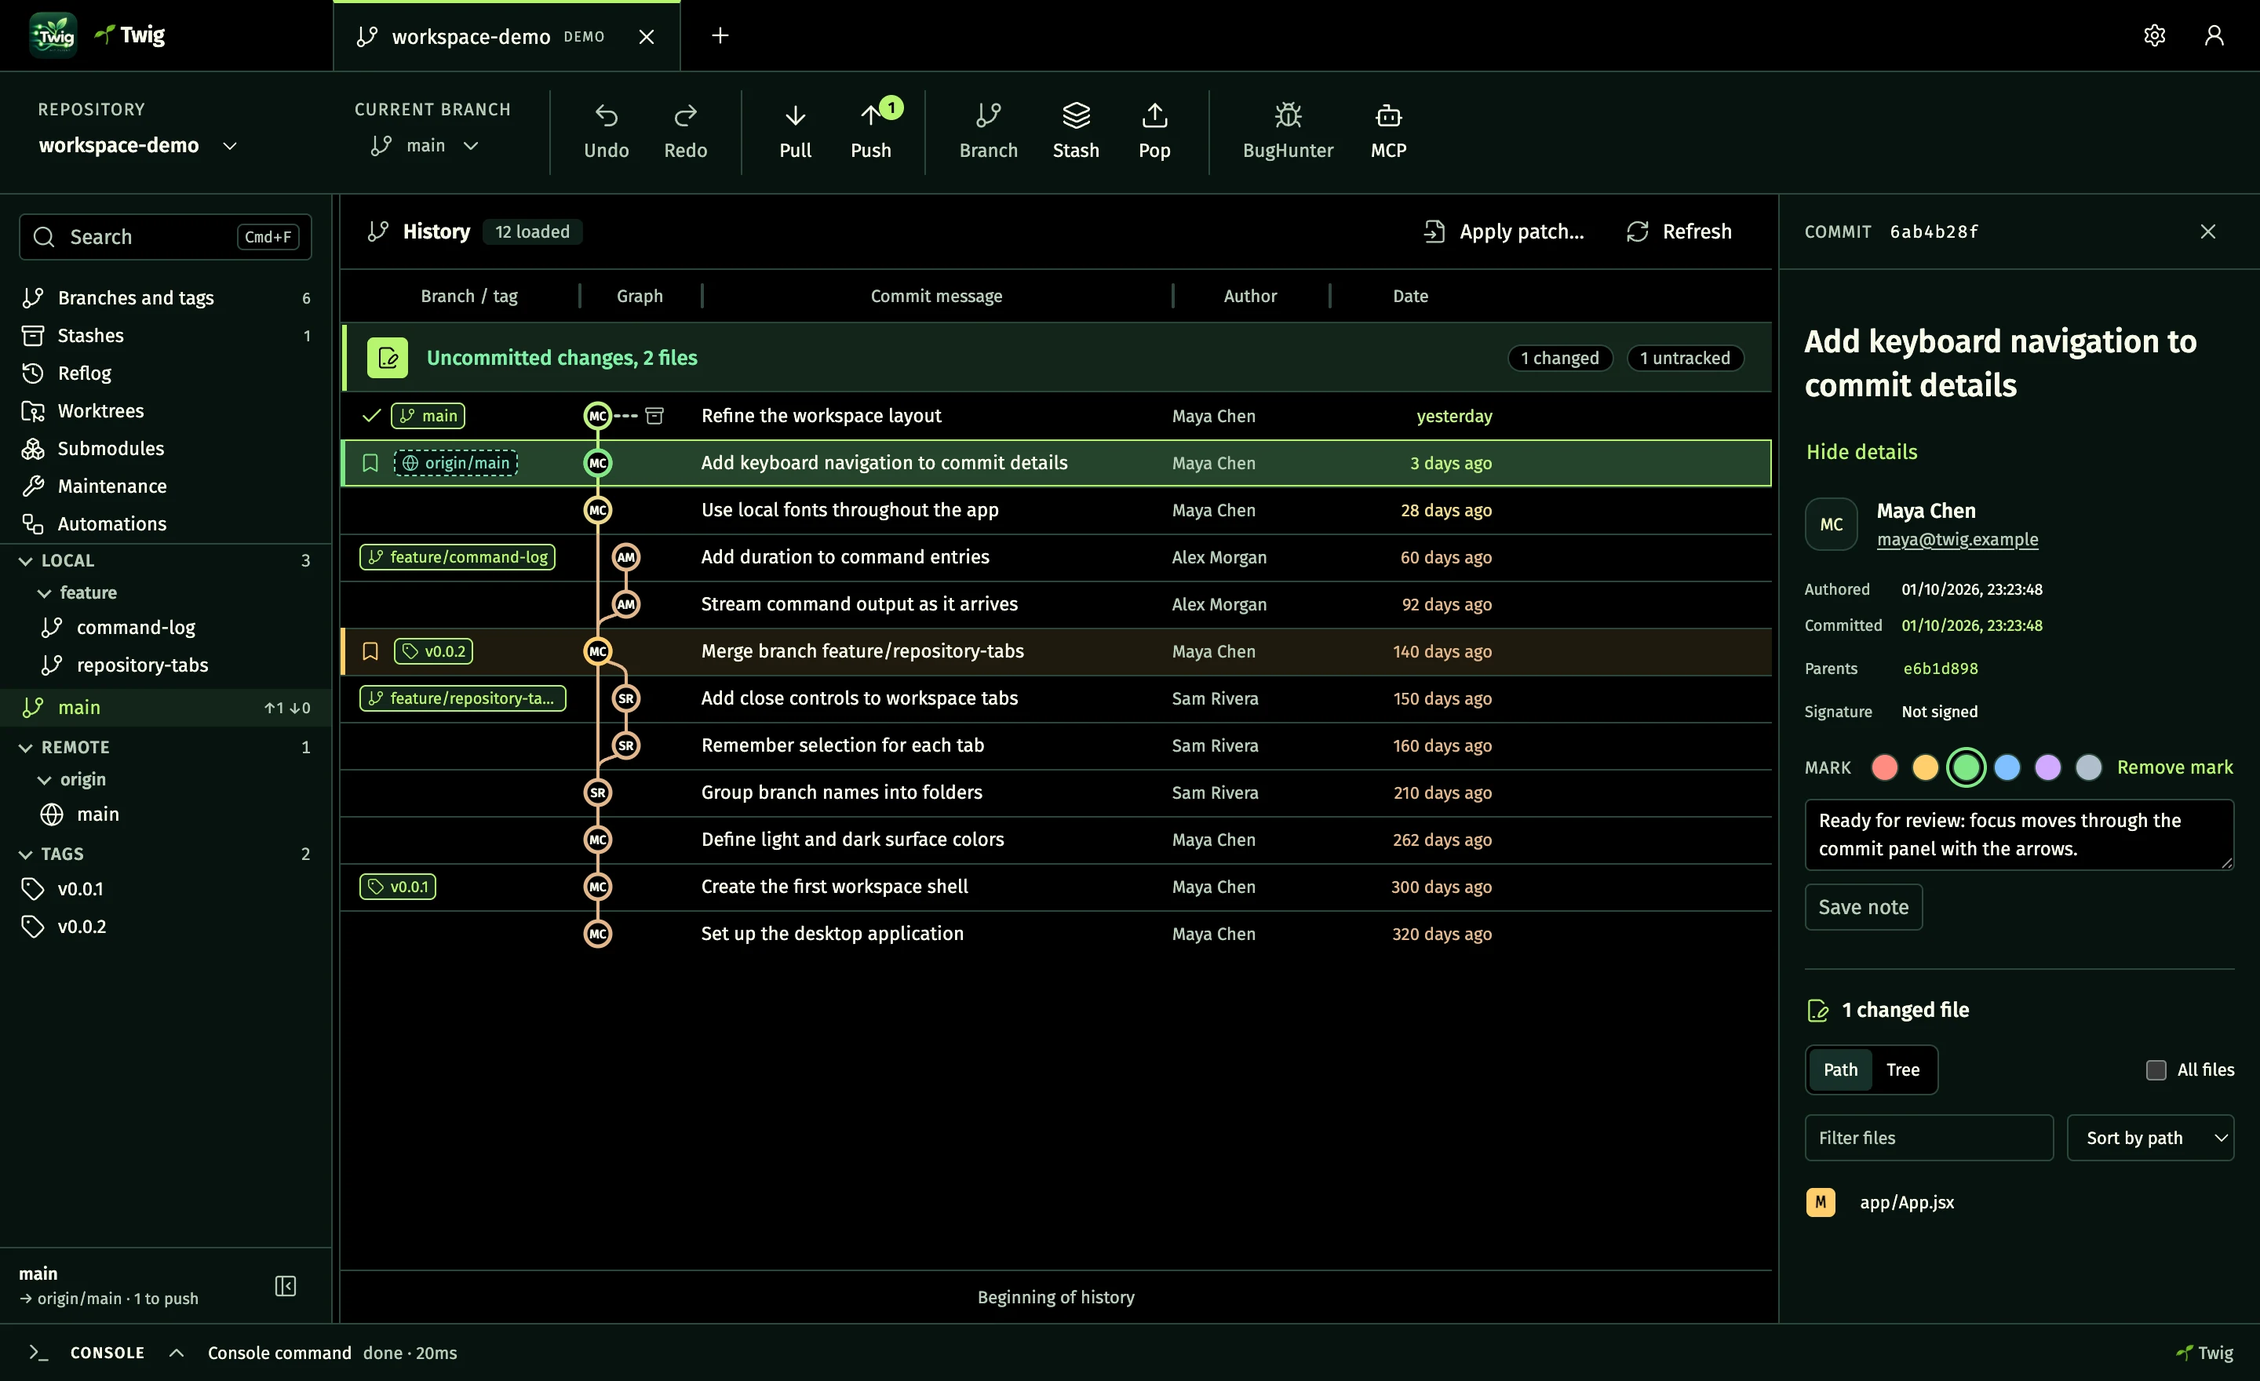
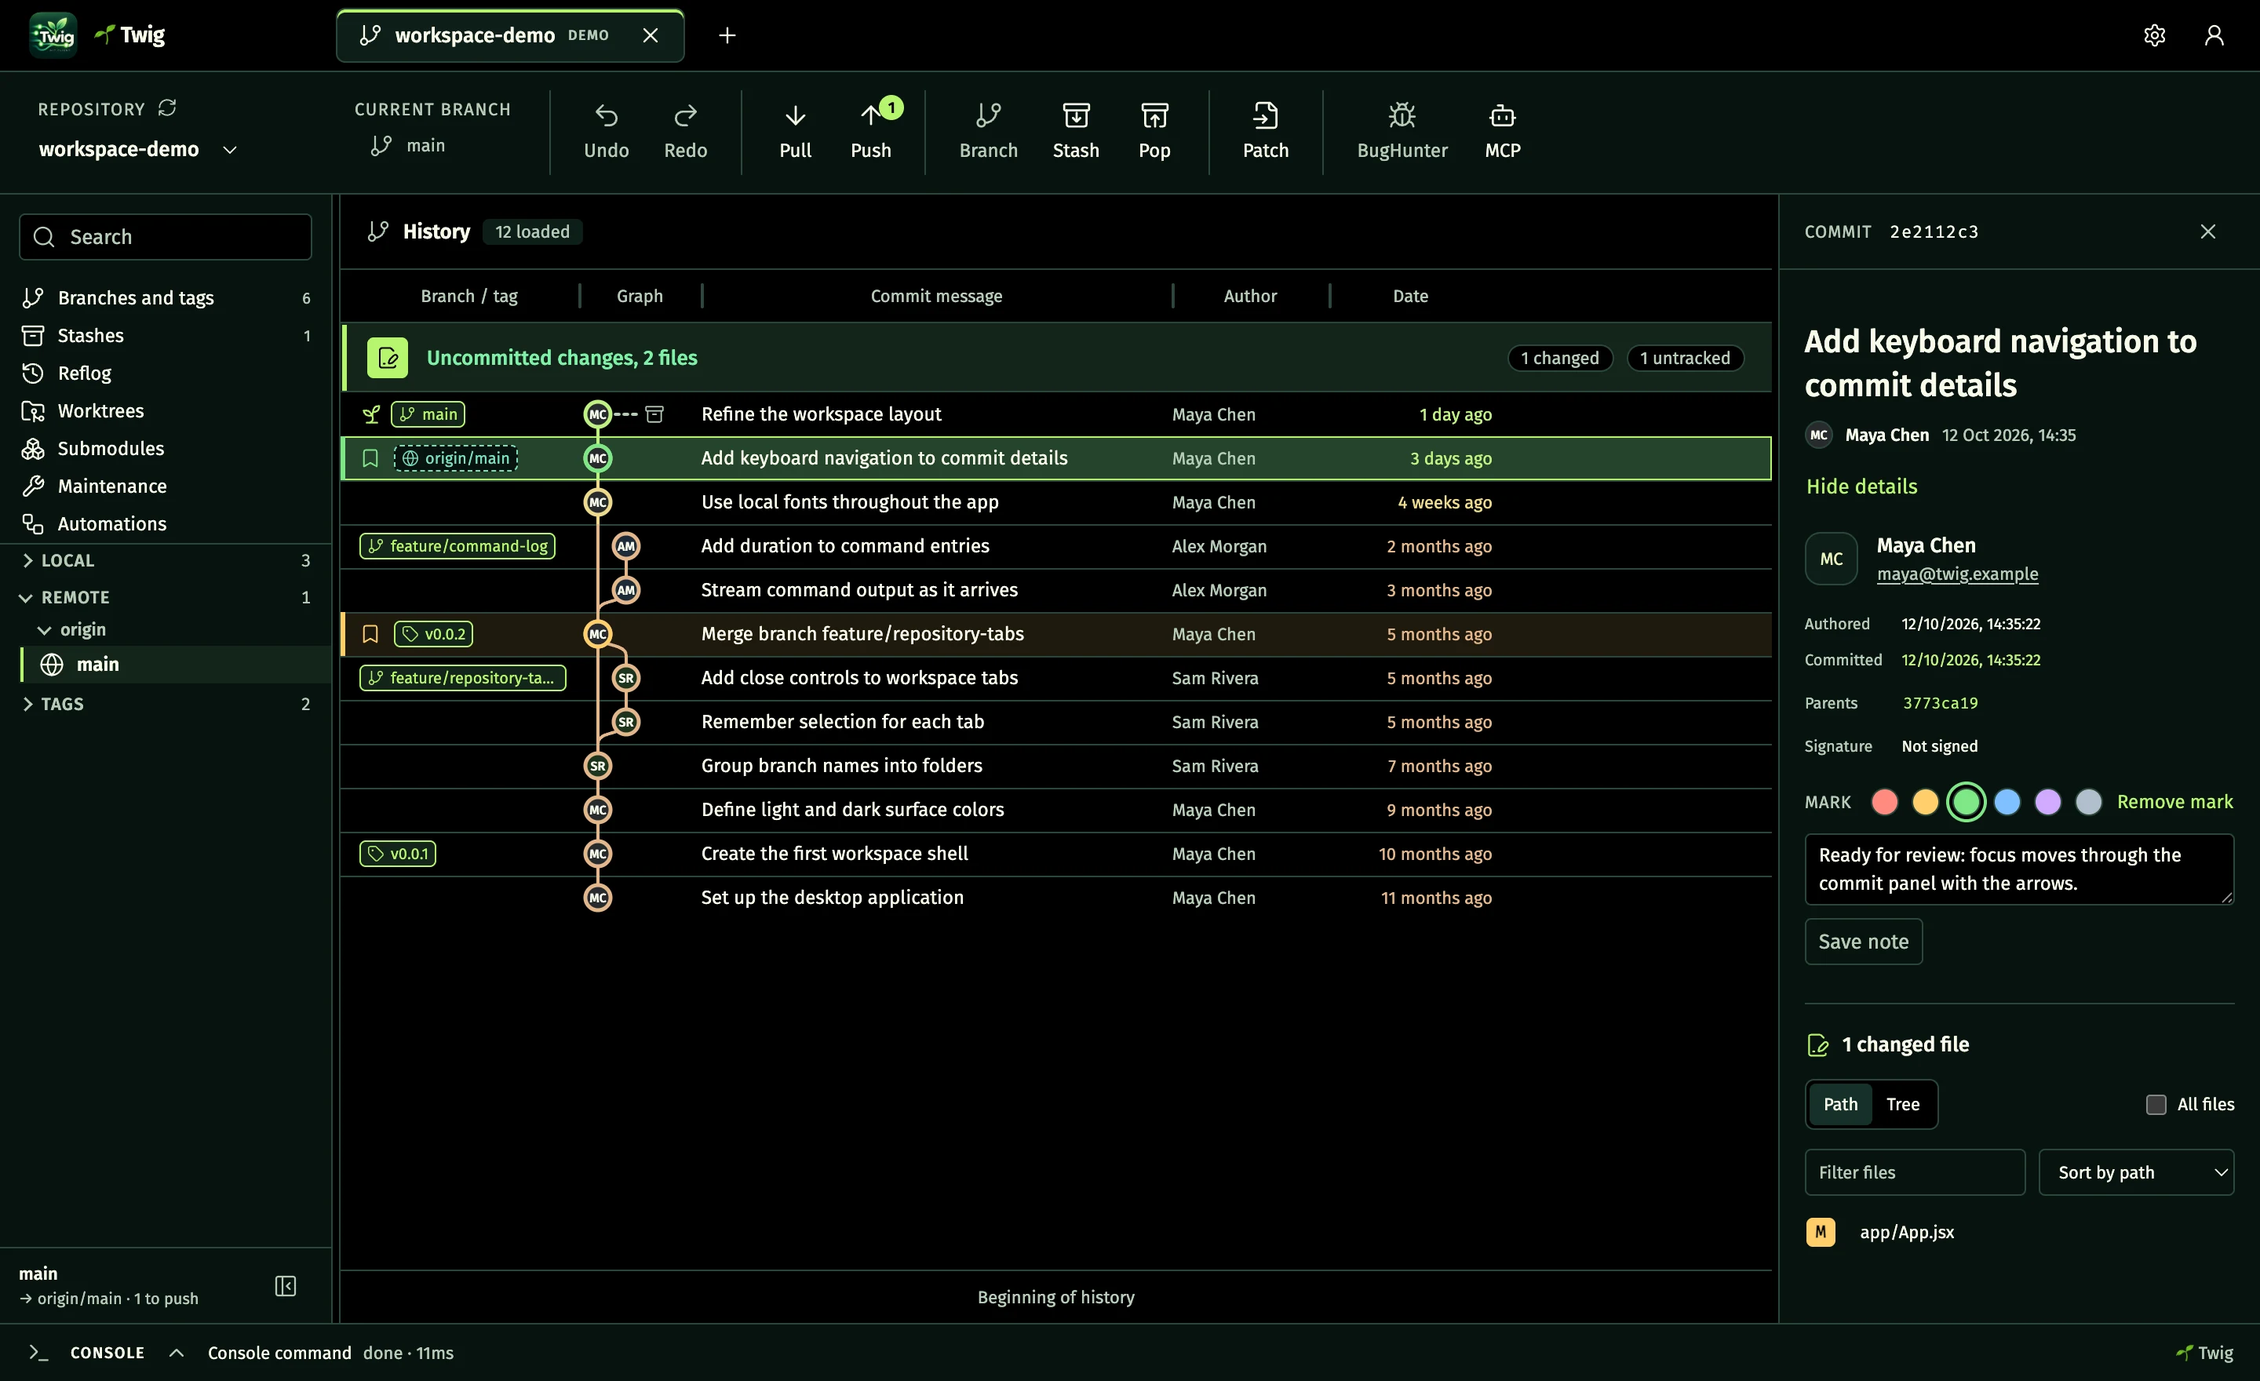
docs(site): retake screenshots, add tree view, HEAD line, speed and shortcuts to the landing
Технически:
- scripts/site-shots.mjs: кадр uncommitted — origin/main на коммит впереди main (commit-tree, ref возвращается после кадра), пунктир к main, списки деревом; все 11 кадров пересняты (тулбар с Patch, консоль Short/Path).
- site/index.html: #features 16 → 20 пунктов (незакоммиченное деревом, где ваша ветка, большие репозитории — замер 0,75 с на 100 000 коммитов, клавиши под себя), подпись и alt кадра; README — History/Changes/Everyday и подпись кадра. site/check.mjs прошёл на 375/768/1024/1440.

Патчноут:
- —

diff --git a/site/index.html b/site/index.html
@@ -105,6 +105,8 @@
           <li data-reveal><strong>Undo для Git</strong><span>Коммит, merge, cherry-pick, checkout, stash и даже discard — правки сначала копируются в Git.</span></li>
           <li data-reveal><strong>Проверки до commit и push</strong><span>Тесты, правила ветки и сообщения, поиск секретов — без ручных хуков.</span></li>
           <li data-reveal><strong>Staging по строкам</strong><span>Файлы, ханки или отдельные строки. Дифф с номерами и правками внутри строки.</span></li>
+          <li data-reveal><strong>Незакоммиченное деревом</strong><span>Списки по папкам, фильтр по имени и типу файла — Stage берёт только показанное.</span></li>
+          <li data-reveal><strong>Где ваша ветка</strong><span>Отстала от remote или другой ветки — пунктир слева ведёт к её коммиту.</span></li>
           <li data-reveal><strong>Rebase по плану</strong><span>Порядок перетаскиванием, squash выделенных, новые сообщения — до запуска.</span></li>
           <li data-reveal><strong>Конфликты в три колонки</strong><span>Ваша версия, база и их — результат собирается построчно.</span></li>
           <li data-reveal><strong>Ветки перетаскиванием</strong><span>Merge, rebase, cherry-pick или push — команды видны до запуска.</span></li>
@@ -115,6 +117,8 @@
           <li data-reveal><strong>Поиск по всей истории</strong><span>По сообщению, хэшу, автору, пути и коду (<code>-S</code>, <code>-G</code>).</span></li>
           <li data-reveal><strong>Марки и заметки</strong><span>Цвет и текст на коммите — только у вас, не в репозитории.</span></li>
           <li data-reveal><strong>Worktrees, сабмодули, LFS</strong><span>А ещё подписи коммитов, патчи, теги и обслуживание репозитория.</span></li>
+          <li data-reveal><strong>Большие репозитории</strong><span>История читается потоком: в замере на 100&nbsp;000 коммитов — вся за 0,75&nbsp;с.</span></li>
+          <li data-reveal><strong>Клавиши под себя</strong><span>Любое сочетание переназначается в Settings и работает в любой раскладке.</span></li>
           <li data-reveal><strong>Учебная песочница</strong><span>Настоящий репозиторий с remote: пробуйте merge и rebase без риска.</span></li>
           <li data-reveal><strong>Обновления в один клик</strong><span>Установщик сверяется с релизом по SHA&#8209;256, сборка для macOS подписана и нотаризована.</span></li>
         </ul>
@@ -124,7 +128,7 @@
     <section class="screens wrap section-space" id="screens" aria-labelledby="screens-title">
       <div class="section-heading compact"><div><p class="eyebrow">ЭКРАНЫ ПРИЛОЖЕНИЯ</p><h2 id="screens-title">Снято в самом 🌱 Twig, не нарисовано.</h2></div><p>Все снимки — демо-репозиторий, который<br>открывается при первом запуске.</p></div>
       <div class="screen-grid">
-        <figure class="screen" data-reveal><a href="assets/shots/uncommitted.webp" target="_blank" rel="noopener" aria-label="Незакоммиченные изменения — открыть в полном размере (новая вкладка)"><img src="assets/shots/uncommitted.webp" width="2880" height="1760" alt="Полоса «Uncommitted changes, 3 files» с чипами 1 staged, 2 changed, 1 untracked над графом; справа списки Staged, Changed и Untracked с кнопками плюс и минус у каждого файла." loading="lazy"></a><figcaption><strong>Незакоммиченные изменения</strong><span>Плюс и минус переносят файл в коммит и обратно, граф остаётся на месте.</span></figcaption></figure>
+        <figure class="screen" data-reveal><a href="assets/shots/uncommitted.webp" target="_blank" rel="noopener" aria-label="Незакоммиченные изменения — открыть в полном размере (новая вкладка)"><img src="assets/shots/uncommitted.webp" width="2880" height="1760" alt="Ветка main отстала от origin/main на один коммит: пунктир слева ведёт от верхней строки к коммиту main. Над графом полоса «Uncommitted changes, 4 files» с чипами 1 staged, 3 changed, 1 untracked; справа списки деревом папок, переключатель Path / Tree, фильтр по типу файла и кнопки плюс и минус у каждого файла." loading="lazy"></a><figcaption><strong>Незакоммиченные изменения</strong><span>Деревом или по типу файла, плюс и минус — прямо у графа. Пунктир показывает, на какой ветке вы.</span></figcaption></figure>
         <figure class="screen" data-reveal><a href="assets/shots/mcp.webp" target="_blank" rel="noopener" aria-label="Окно MCP — открыть в полном размере (новая вкладка)"><img src="assets/shots/mcp.webp" width="2880" height="1760" alt="Окно AI agents (MCP) поверх демо-песочницы: MCP server — On, статус Listening, четыре карточки What your agent gets, три шага подключения и команда для Claude Code с кнопкой Copy." loading="lazy"></a><figcaption><strong>MCP для агента</strong><span>Включение, что получит агент, и готовая команда подключения с кнопкой Copy.</span></figcaption></figure>
         <figure class="screen" data-reveal><a href="assets/shots/conflict.webp" target="_blank" rel="noopener" aria-label="Редактор конфликтов — открыть в полном размере (новая вкладка)"><img src="assets/shots/conflict.webp" width="2880" height="1760" alt="Merge in progress: редактор конфликта в app/App.jsx — колонки Ours, Base и Theirs с отмеченными строками, справа результат, который будет записан на диск." loading="lazy"></a><figcaption><strong>Редактор конфликтов</strong><span>Строки выбираются по одной, порядок сторон задаётся, у редактора своя отмена.</span></figcaption></figure>
         <figure class="screen" data-reveal><a href="assets/shots/automations-blocked.webp" target="_blank" rel="noopener" aria-label="Автоматизации — открыть в полном размере (новая вкладка)"><img src="assets/shots/automations-blocked.webp" width="2880" height="1760" alt="Окно Before Commit checks: Commit blocked, 0 passed, 1 failed — правило «No direct commits» запрещает коммиты в main; кнопки Fix and retry, Run again и Bypass once." loading="lazy"></a><figcaption><strong>Проверки перед коммитом</strong><span>Пайплайн остановил коммит в main и объяснил почему.</span></figcaption></figure>

diff --git a/README.md b/README.md
@@ -71,8 +71,11 @@ cut in the middle. More: [docs/mcp.md](docs/mcp.md).
 - **History** — a virtualized graph that names every branch and tag; search by message,
   hash, author, path or code (`-S`, `-G`); blame, "blame before this change" and reverse
   blame; file history across renames; reflog with lost commits marked and recoverable.
-- **Changes** — stage files, hunks or single lines; discard with Undo; amend,
-  co-authors, `.gitignore` from the menu.
+  When the checked-out branch is not the top row — behind its remote or another
+  branch — a dashed line on the left leads down to its commit.
+- **Changes** — stage files, hunks or single lines; lists by path or as a folder tree,
+  filtered by name or file type, and with a filter on, Stage/Unstage take only what is
+  shown; discard with Undo; amend, co-authors, `.gitignore` from the menu.
 - **Diffs** — numbered on both sides, intra-line and word modes, syntax highlighting;
   images side by side, swipe, onion skin or difference, with the changed areas boxed.
 - **Rewriting history** — a context menu with everything that applies; interactive
@@ -86,14 +89,14 @@ cut in the middle. More: [docs/mcp.md](docs/mcp.md).
   review them.
 - **Everyday** — picks up commits made in a terminal by itself (no polling), a demo
   sandbox that is a real repository, dark and light themes, full keyboard control
-  (Cmd/Ctrl + J console, F search, T new tab, W close tab, `,` settings).
+  with every shortcut reassignable in Settings and working in any keyboard layout.
 
 ## Screenshots
 
 | | |
 | --- | --- |
-| ![Uncommitted changes: the strip over the graph with 1 staged, 2 changed and 1 untracked, and the three lists in the right panel with a plus or minus on each file.](site/assets/shots/uncommitted.webp) | ![The AI agents (MCP) window over the demo sandbox: MCP server On and listening, what the agent gets, three connection steps and the Claude Code command with Copy.](site/assets/shots/mcp.webp) |
-| **Uncommitted changes** — stage and unstage without leaving the graph. | **MCP** — turn it on and copy the command for your agent. |
+| ![Uncommitted changes: main is one commit behind origin/main, so a dashed line runs from the top row down to main; the strip over the graph says 1 staged, 3 changed, 1 untracked, and the right panel lists them as a folder tree with a plus or minus on each file.](site/assets/shots/uncommitted.webp) | ![The AI agents (MCP) window over the demo sandbox: MCP server On and listening, what the agent gets, three connection steps and the Claude Code command with Copy.](site/assets/shots/mcp.webp) |
+| **Uncommitted changes** — as a tree or filtered by type; the dashed line shows which branch they are on. | **MCP** — turn it on and copy the command for your agent. |
 | ![A merge stopped on app/App.jsx: the conflict editor with Ours, Base and Theirs columns, lines picked from both sides, and the result that will be written to disk.](site/assets/shots/conflict.webp) | ![An automation pipeline blocking a commit to main: Commit blocked, 0 passed, 1 failed, with Fix and retry, Run again and Bypass once.](site/assets/shots/automations-blocked.webp) |
 | **Conflict editor** — pick lines from each side in the order you choose. | **Automations** — a pre-commit pipeline stops a direct commit to `main`. |
 | ![BugHunter testing a commit in the middle of the range, with about two more tests to go and Bug absent / Bug present / Cannot test · Skip.](site/assets/shots/bughunter.webp) | ![Blame of app/App.jsx grouped by commit, with the selected line's commit and its diff of this file on the right.](site/assets/shots/blame.webp) |
